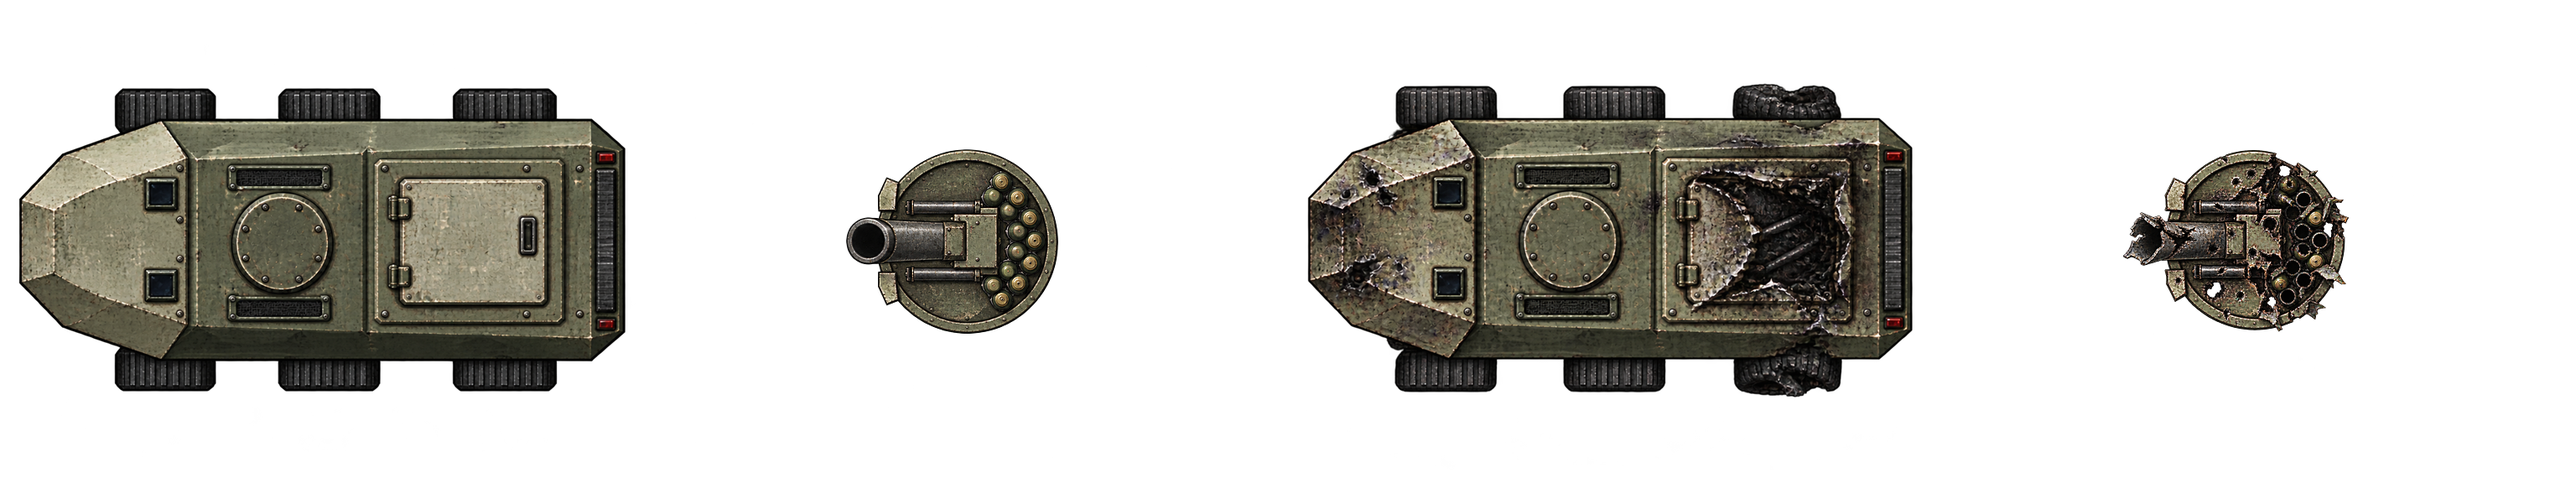
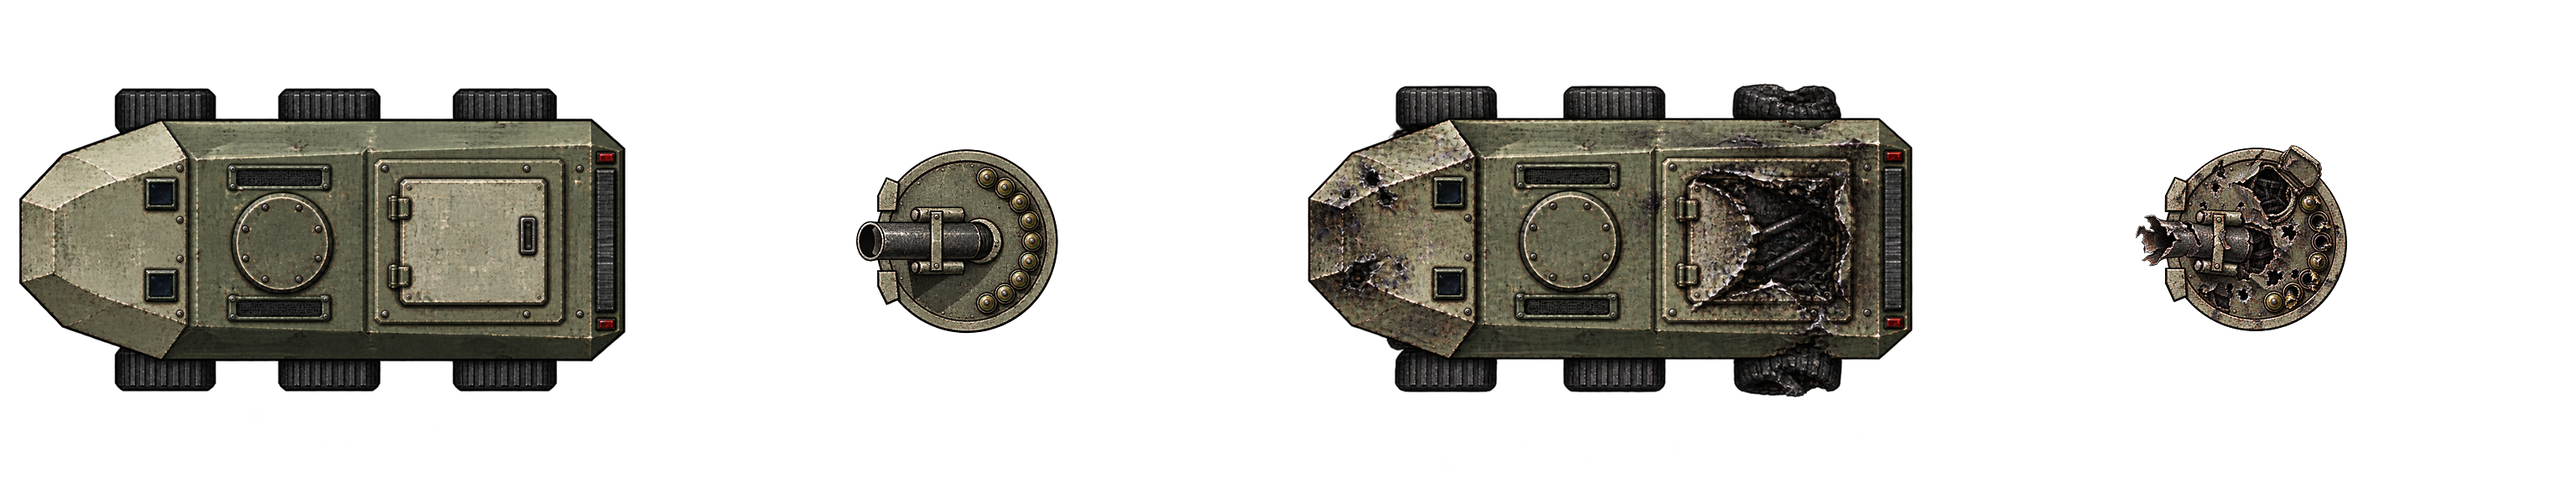
Mortar carrier: ship the redrawn open head (owner's pick open-v2)
pack.py now defaults to open-v2b and the shipped sheet carries it and its wreck.
Checked with createSnapshots -Psnapshot=fire-support-apc (look only): idle,
shelling, armour and wreck shots. No unit tests touched.

Changed region(s): [[0.8125, 0.2812, 0.9375, 0.6875], [0.3125, 0.3125, 0.4375, 0.6875]]

diff --git a/art-source/vehicles/mortar-carrier/pack.py b/art-source/vehicles/mortar-carrier/pack.py
@@ -39,7 +39,7 @@ REGISTRATION = {
     "open": {"scale": 475 / 505, "pivot": (723.0, 544.0)},
     "open-v2b": {"scale": 1.236, "pivot": (734.5, 543.5)},
 }
-DEFAULT = "open"
+DEFAULT = "open-v2b"
 
 
 def slot(sheet, index):

diff --git a/art-source/vehicles/mortar-carrier/README.md b/art-source/vehicles/mortar-carrier/README.md
@@ -10,7 +10,7 @@ APC sheet as material reference:
 
 - **open** (`open-guide.png`, `open.prompt.txt`, `open-raw.png`): an open turntable, the 120 mm tube raised steeply
   with its bore toward the eye, ready bombs racked round the rear. The muzzle is the bore, 0.36 cells ahead of the
-  pivot (`mount.vehicle-mortar`). Shipped.
+  pivot (`mount.vehicle-mortar`). Rejected by the owner (see below).
 - **enclosed** (`enclosed-guide.png`, `enclosed.prompt.txt`, `enclosed-raw.png`): a low NEMO-style turret house with
   one long breech-loaded tube; its muzzle brake is 0.78 cells ahead of the pivot.
 
@@ -20,7 +20,7 @@ and pivot against its guide (`REGISTRATION`) and lays the wreck over the live ra
 
 ```
 python art-source/vehicles/mortar-carrier/guide.py
-python art-source/vehicles/mortar-carrier/pack.py [open|enclosed]
+python art-source/vehicles/mortar-carrier/pack.py [open-v2b|open|enclosed]
 ```
 
 The owner rejected the first open head: ImageGen follows the shapes a guide implies, and the flat disc drawn for
@@ -28,7 +28,7 @@ the muzzle came back as a perfect-circle bore on a tube that read as lying flat.
 in `guide.py`) draws the solid instead: the tube a cylinder shaded round its length and lightening as it rises at 45
 degrees, its shadow on the turntable widening toward the muzzle, the muzzle an ellipse squeezed along the gun by
 sin(45) with the lit inner wall on the breech side of the bore. `open-v2b-raw.png` is the kept generation
-(`open-v2.prompt.txt`; a second one was weaker and is not kept), `open-v2b-wreck-raw.png` its wreck. It awaits the
-owner's pick against `enclosed`; `pack.py open-v2b` packs it, at the same 0.36-cell muzzle.
+(`open-v2.prompt.txt`; a second one was weaker and is not kept), `open-v2b-wreck-raw.png` its wreck. The owner picked it
+over `enclosed`: it ships, and is `pack.py`'s default, at the same 0.36-cell muzzle.
 
 Switching to `enclosed` also moves `mount.vehicle-mortar`'s `muzzleOffsetCells` to 0.78.
